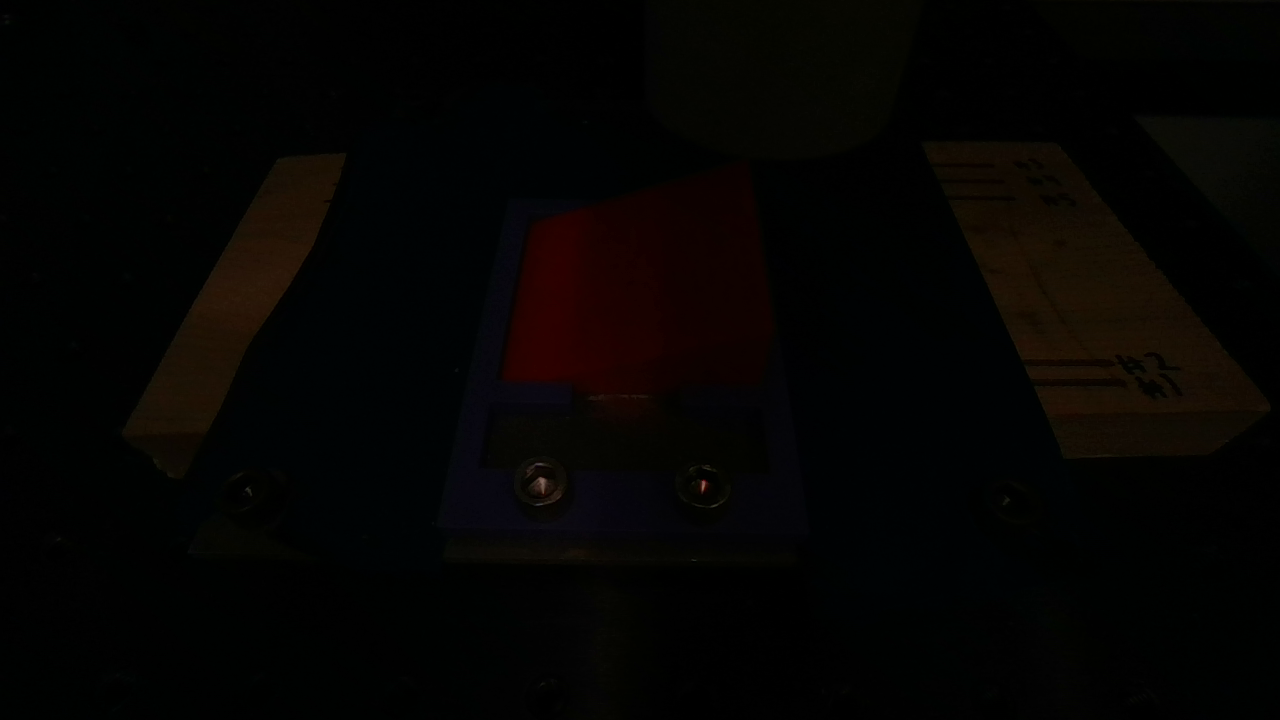
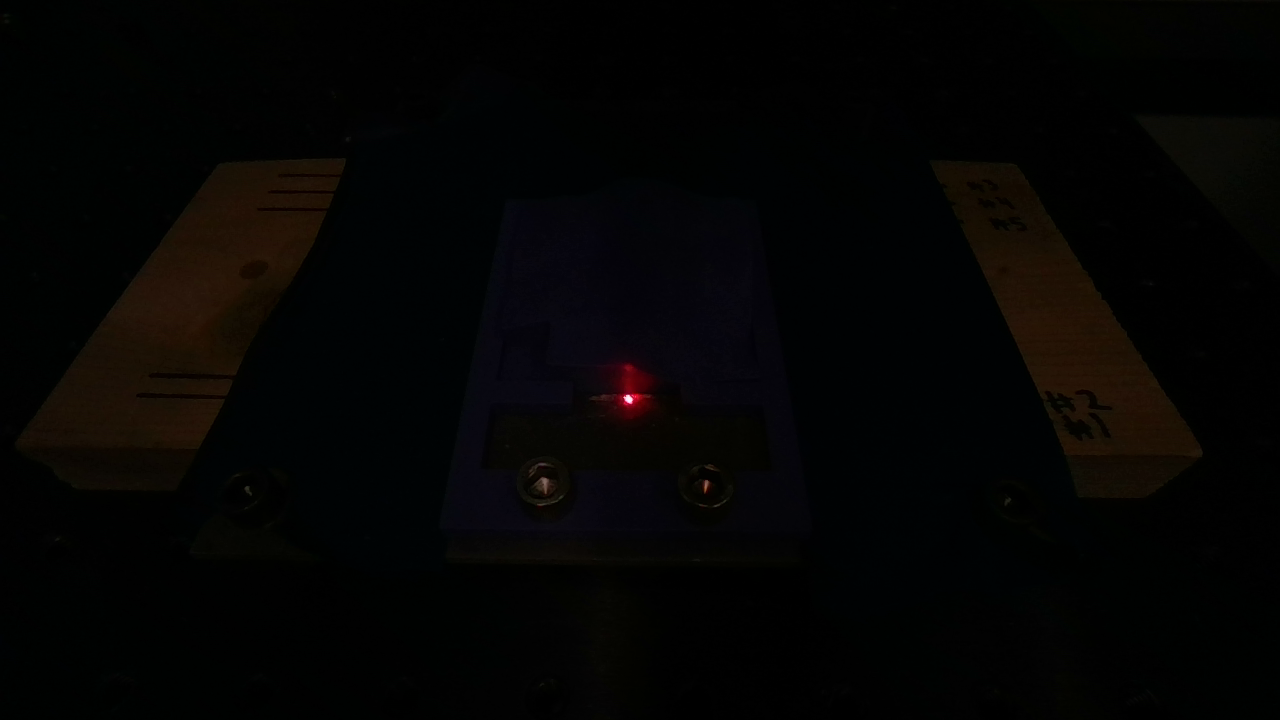
most recent updates to focus control

diff --git a/surgical_system/py_src/registration/transformations/depth_estimation.py b/surgical_system/py_src/registration/transformations/depth_estimation.py
@@ -723,18 +723,18 @@ class DepthEstimation():
 
         # Extract X,Y,Z coordinates of points in STL file 
         # TODO/FIXME: point to CAD model stl file to compare to & register properly
-        mesh = trimesh.load("surgical_system/py_src/image_development/nine_peaks_2.stl")
+        mesh = trimesh.load("surgical_system/py_src/image_development/hills_4.stl")
         # print(type(mesh))
         mesh.apply_scale(0.001)  # scale from mm to m 
-        # Rotate STL file about z axis -90 degrees to align with recon (nine peaks STLs)
-        angle = -np.pi/2
-        T = np.array([
-            [np.cos(angle), -np.sin(angle), 0, 0],
-            [np.sin(angle),  np.cos(angle), 0, 0],
-            [0,              0,             1, 0],
-            [0,              0,             0, 1]
-        ])
-        mesh.apply_transform(T)
+        # # Rotate STL file about z axis -90 degrees to align with recon (nine peaks STLs)
+        # angle = -np.pi/2
+        # T = np.array([
+        #     [np.cos(angle), -np.sin(angle), 0, 0],
+        #     [np.sin(angle),  np.cos(angle), 0, 0],
+        #     [0,              0,             1, 0],
+        #     [0,              0,             0, 1]
+        # ])
+        # mesh.apply_transform(T)
 
         # Perform ray casting to ensure x,y coordinates we compare are identical (considered with z error)
         # Define ray origins and directions above the mesh, pointing downwards
@@ -778,17 +778,17 @@ class DepthEstimation():
         # plt.figure()
         # indices = np.arange(len(err_z))
         # plt.plot(indices, err_z, 'o-')
-        # plt.xlabel('Index')
-        # plt.ylabel('Error')
-        # plt.title('Error vs. Index')
+        # plt.xlabel('Node Index')
+        # plt.ylabel('Vertical Error [mm]')
+        # plt.title('Vertical Error vs. Node Index')
         # plt.axhline(0, linestyle='--')
         # plt.show()
 
         # Plot original STL against reconstructed surface  
         mesh_triangles = mesh.triangles
-        poly = Poly3DCollection(mesh_triangles, alpha=0.25)
+        poly = Poly3DCollection(mesh_triangles, alpha=0.1)
         poly.set_edgecolor('k')
-        poly.set_facecolor('gray')
+        poly.set_facecolor('orange')
         ax.add_collection3d(poly)
         ax.auto_scale_xyz(mesh.vertices[:,0], mesh.vertices[:,1], mesh.vertices[:,2])
 

diff --git a/surgical_system/py_src/registration/calibration.py b/surgical_system/py_src/registration/calibration.py
@@ -59,6 +59,7 @@ def exp_depth_scan(cam_reg, gridShape, squareSize):
     cam_reg.robot_controller.go_to_pose(start_pose @ cam_reg.robot_controller.home_pose)
     
     traj = cam_reg.robot_controller.create_custom_trajectory(robot_path, 0.01)
+    # Create dense homography stack at beginning of following method
     depth, meta = cam_reg.scan_region_for_depth(traj)
     
     save_location = cam_reg.directory + cam_reg.calibration_folder + "/depth_map.npz"
@@ -546,9 +547,9 @@ def main():
     # Create "base" homography stack for interpolation in dense stack creation
     # FIMXE: Anything <= 10 mm for heights causes infinite world reprojection error
     # Note: Took average of 3 measurements from Faro arm for calibration block heights 
-    # heights = np.array([1.004, 1.989, 10.087, 19.955, 49.807]) 
+    # heights = np.array([1.004, 1.989, 10.087, 19.955, 34.841, 49.807]) 
 
-    heights = np.array([10.087, 19.955, 49.807]) #+ 44.0 # mm, based on height of platform
+    heights = np.array([10.087, 34.841]) # + 44.0 # mm, based on height of platform
     heights = heights / 1000.0 # mm -> m
     depth_path = "homography_stack.npz"
     # TODO: Check scanning pattner, seems slightly off center
@@ -559,7 +560,7 @@ def main():
         # Note: gridShape values are expected to be odd
     # squareSize: 0.002 for 25 x 25 mm block scans 24 x 24 mm, 0.0019 ~ 23 mm x 23 mm, 0.0018 ~ 21.5 mm^2)
         # Note: decrease squareSize to avoid drifting over edge due to radius of aiming beam
-    exp_depth_scan(camera_reg, gridShape = np.array([25, 25]), squareSize = 0.0013)
+    exp_depth_scan(camera_reg, gridShape = np.array([25, 25]), squareSize = 0.0012)
     
     # Shut down camerastreams
     rgbd_cam.stop_stream()

diff --git a/surgical_system/py_src/focus_control.py b/surgical_system/py_src/focus_control.py
@@ -85,17 +85,15 @@ def calc_traj(camera_reg):
         # Surface is 44 mm above ground plane 
         # Robot zero position is 198.5 mm in z
         # Focal position is approixmately 105 mm
-        # FIXME: Need to figure out how to appropriately calculate focal distance (equations wrong, implementation correct)
-        # "Zero" starting position of robot in focus is 198.5 - (44 + z_recon) + dist_to_focus = 105 mm 
         # "Zero" starting position of robot in focus is 198.5 - (44 + z_recon) + dist_to_focus = 105 mm 
     robot_path = recon_points
-    dist_to_focus = 0.0495 - recon_points[:,2]
+    dist_to_focus = recon_points[:,2] - 0.0495
     print(f"dist_to_focus: {dist_to_focus}")
-    # Adjust z position to be at focal distance
-    robot_path[:,2] = (-1 * dist_to_focus[0]) # * np.ones(len(np.array(robot_path[:,2]))) # For NAF
+    # TODO: Adjust z position to be at focal distance (choose if AF or NAF)
+    robot_path[:,2] = dist_to_focus[0] * np.ones(len(np.array(robot_path[:,2]))) # For NAF, only choose dist_to_focus[0] index 
     
 
-    # Calculate the trajectory
+    # Calculate the trajectory (must change depending upon object being scanned)
     max_vel = 0.00467 #[m/s] - 0.005 m/s on slant, but only control horizontal velocity
     traj = camera_reg.robot_controller.create_custom_trajectory(robot_path, max_vel)
 

diff --git a/surgical_system/py_src/focal_distance.py b/surgical_system/py_src/focal_distance.py
@@ -97,7 +97,7 @@ def calc_traj(camera_reg):
     # zValues = np.linspace(-0.090, -0.040, xValues.shape[0])
     
     
-    # Testing MDF x CO2 laser interactions
+    # Testing MDF x CO2 laser interactions OR focal distance
     xValues = np.arange(-0.020, 0.020, 0.001)
     # TODO: Select yValues of robot
     # yValues = np.full(xValues.shape, -0.020)
@@ -107,10 +107,11 @@ def calc_traj(camera_reg):
     # yValues = np.full(xValues.shape, 0.010)
     yValues = np.full(xValues.shape, 0.015)
     X, Y = np.meshgrid(xValues, yValues)
-    #TODO: Select zValues (focal height) of robot
+    # TODO: Select zValues (focal height) of robot
     # Height for approximate focal distance of 0.105 m to top of MDF block
-    focalPointHeight = -0.0365
-    Z = np.full(X.size, focalPointHeight) #m
+    focalPointHeight = -0.0365 #m
+    focalHeightAdjustment = 0.010 #m
+    Z = np.full(X.size, focalPointHeight + focalHeightAdjustment) #m
 
     robot_path = np.hstack((X.reshape((-1, 1)), 
                                     Y.reshape((-1, 1)), 
